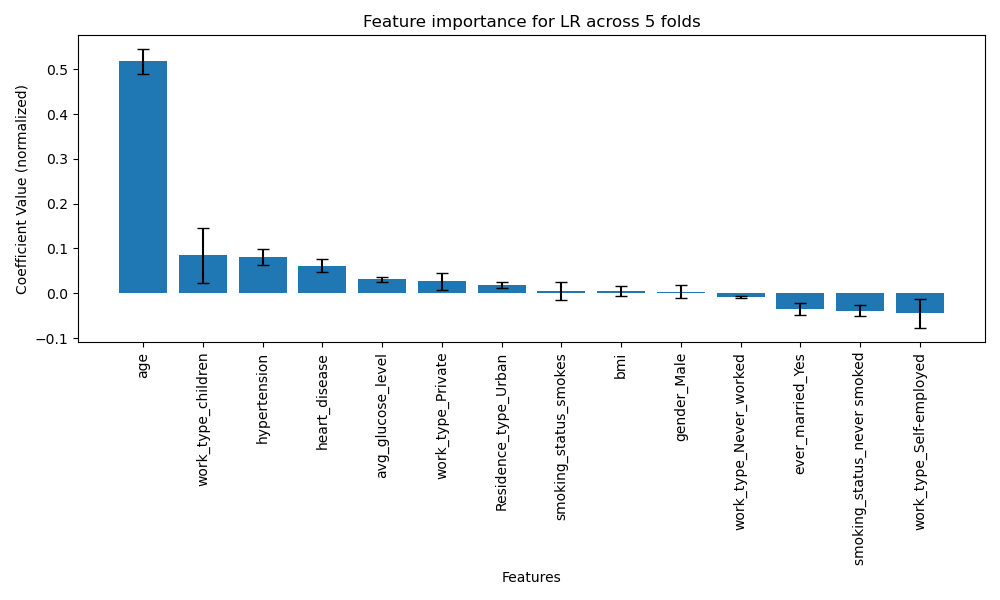
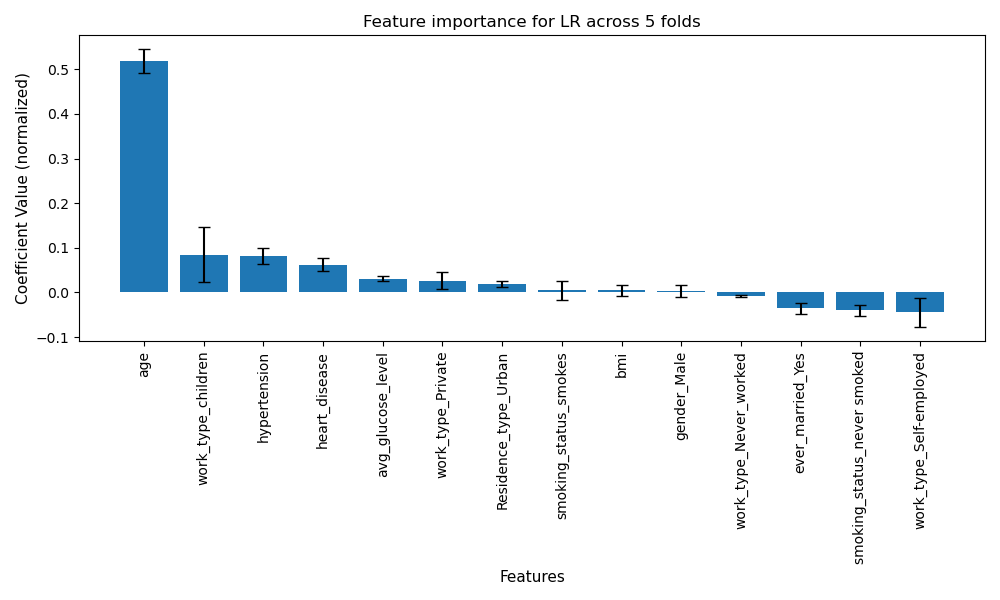
Minor changes

diff --git a/Code/main.py b/Code/main.py
@@ -342,7 +342,7 @@ def logistic_regression(X,y,n_splits):
     axs.set_ylabel('TPR', fontsize = 11)
     add_identity(axs, color="r", ls="--",label = 'random\nclassifier')
     axs.legend()
-    axs.title.set_text("ROC curve for LR", fontsize = 12)
+    axs.set_title("ROC curve for LR", fontsize = 12)
     plt.tight_layout()
     plt.savefig('../output/LR_roc_curve.png')
     plt.show()
@@ -358,7 +358,7 @@ def logistic_regression(X,y,n_splits):
     # Visualize the normalized feature importance across the n folds and add error bar to indicate the std
     top_features_15 = df_LR_normcoef_sorted[:15]
     fig, ax = plt.subplots(figsize=(10, 6))
-    ax.bar(top_features_15.index.tolist(), top_features_15['mean_coef'].values, yerr=top_features_15.std(axis=1).tolist(), capsize=4, fontsize = 10)
+    ax.bar(top_features_15.index.tolist(), top_features_15['mean_coef'].values, yerr=top_features_15.std(axis=1).tolist(), capsize=4)
     ax.set_xlabel('Features', fontsize = 11)
     ax.set_ylabel('Coefficient Value (normalized)', fontsize = 11)
     ax.set_title('Feature importance for LR across 5 folds', fontsize = 12)
@@ -664,7 +664,7 @@ def support_v_m(X, y, n_splits):
 
 
     # Printing mean values from the cross validation
-    print(f'Preicsion across folds: {precision}, mean = {mean(precision)}')
+    print(f'Precision across folds: {precision}, mean = {mean(precision)}')
     print(f'Recall across folds, {recall}, mean = {mean(recall)}')
     print(f'F1 across folds: {F1}, mean = {mean(F1)}')
     print()
